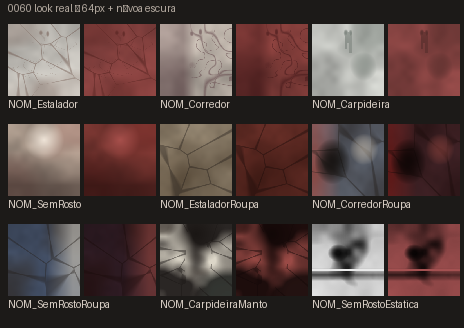
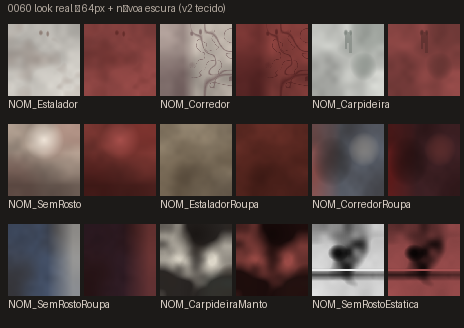
fix: tecido sem Voronoi — roupa/pele mais orgânicos no look 0060
Remove rachadura geométrica das Roupas/Manto/Pale; regenera prévia.

diff --git a/scripts/gen_textures.py b/scripts/gen_textures.py
@@ -138,15 +138,13 @@ def soft_flesh(rng, size, base):
 
 
 def estalador_skin(rng, size=256):
-    # The Pale (0060): cera legível — rachadura e órbitas em marrom-suave, não grade P&B.
+    # The Pale (0060): cera legível — manchas/órbitas suaves (sem Voronoi geométrico).
     rgb = soft_flesh(rng, size, WAX)
-    c = cracks(rng, size, 12)
-    k = np.clip((4.2 - c) / 3.2, 0, 1) * 0.45
-    fine = cracks(rng, size, 28)
-    k = np.maximum(k, np.clip((1.6 - fine) / 1.4, 0, 1) * 0.22 * (noise(rng, size, 4) > 0.50))
-    mott = np.clip((fbm(rng, size, (3, 5), (0.7, 0.3)) - 0.50) / 0.35, 0, 1) * 0.35
-    k = np.maximum(k, mott)
+    mott = np.clip((fbm(rng, size, (3, 5, 9), (0.5, 0.3, 0.2)) - 0.48) / 0.38, 0, 1) * 0.40
+    k = mott
     k = np.maximum(k, face_hollows(size, left=(0.455, 0.12), right=(0.55, 0.135)) * 0.55)
+    fine = np.clip((fbm(rng, size, (6, 12), (0.6, 0.4)) - 0.70) / 0.25, 0, 1) * 0.18
+    k = np.maximum(k, fine)
     return mix(rgb, (110, 85, 75), k)
 
 
@@ -226,33 +224,39 @@ def corredor_boca(rng, size=128):
 
 
 def cloth_body(rng, size, base, stain, accent=None, accent_side=None):
-    """Tecido de roupa cotidiana (0060): fibra + manchas grandes; sem grade/faixa wrap."""
-    weave = 0.70 + 0.30 * fbm(rng, size, (3, 7, 14), (0.5, 0.3, 0.2))
+    """Tecido cotidiano (0060): fibra + manchas orgânicas — SEM Voronoi (lia geométrico)."""
+    weave = 0.72 + 0.28 * fbm(rng, size, (3, 7, 14), (0.5, 0.3, 0.2))
     rgb = color(base, weave)
-    dirt = np.clip((fbm(rng, size, (2, 3, 5), (0.55, 0.3, 0.15)) - 0.42) / 0.40, 0, 1)
-    rgb = mix(rgb, stain, dirt * 0.70)
+    dirt = np.clip((fbm(rng, size, (2, 3, 5), (0.55, 0.3, 0.15)) - 0.40) / 0.42, 0, 1)
+    rgb = mix(rgb, stain, dirt * 0.65)
     if accent is not None and accent_side is not None:
         yy, xx = np.mgrid[0:size, 0:size].astype(np.float32) / size
         side = np.clip((accent_side - xx) / 0.35, 0, 1) if accent_side < 0.5 else np.clip((xx - accent_side) / 0.35, 0, 1)
-        rgb = mix(rgb, accent, side * (0.55 + 0.30 * fbm(rng, size, (3, 5), (0.7, 0.3))))
-    c = cracks(rng, size, 8)
-    wear = np.clip((5.0 - c) / 3.0, 0, 1) * 0.40
-    return mix(rgb, (36, 30, 26), wear)
+        rgb = mix(rgb, accent, side * (0.50 + 0.30 * fbm(rng, size, (3, 5), (0.7, 0.3))))
+    # desgaste macio (fbm), não rachadura Voronoi
+    wear = np.clip((fbm(rng, size, (2, 4), (0.7, 0.3)) - 0.55) / 0.35, 0, 1) * 0.35
+    return mix(rgb, (48, 40, 36), wear)
 
 
 def estalador_roupa(rng, size=256):
     # camisa bege suja / calça marrom — pessoa comum errada
-    return cloth_body(rng, size, (168, 152, 128), (72, 58, 42))
+    rgb = cloth_body(rng, size, (168, 152, 128), (72, 58, 42))
+    yy, xx = np.mgrid[0:size, 0:size].astype(np.float32) / size
+    hi = np.clip(1.0 - (((xx - 0.55) / 0.30) ** 2 + ((yy - 0.30) / 0.25) ** 2), 0, 1)
+    rgb = mix(rgb, (230, 220, 200), hi * 0.45)
+    lo = np.clip((fbm(rng, size, (2, 3), (0.7, 0.3)) - 0.55) / 0.35, 0, 1)
+    return mix(rgb, (40, 32, 28), lo * 0.55)
 
 
 def corredor_roupa(rng, size=256):
-    # metade tom errado (roupa “trocada”) — Misaligned no tecido; contraste alto de longe
+    # metade tom errado (roupa “trocada”) — blobs suaves, não polígonos
     rgb = cloth_body(rng, size, (110, 118, 132), (36, 30, 28), accent=(160, 70, 60), accent_side=0.40)
     yy, xx = np.mgrid[0:size, 0:size].astype(np.float32) / size
-    patch = np.clip(1.0 - (((xx - 0.28) / 0.25) ** 2 + ((yy - 0.52) / 0.32) ** 2), 0, 1)
-    rgb = mix(rgb, (18, 16, 14), patch * 0.90)
-    light = np.clip(1.0 - (((xx - 0.72) / 0.20) ** 2 + ((yy - 0.35) / 0.22) ** 2), 0, 1)
-    return mix(rgb, (200, 190, 175), light * 0.55)
+    patch = np.clip(1.0 - (((xx - 0.28) / 0.28) ** 2 + ((yy - 0.52) / 0.35) ** 2), 0, 1)
+    patch = patch * (0.55 + 0.45 * fbm(rng, size, (2, 4), (0.7, 0.3)))
+    rgb = mix(rgb, (32, 28, 26), patch * 0.70)
+    light = np.clip(1.0 - (((xx - 0.72) / 0.22) ** 2 + ((yy - 0.35) / 0.24) ** 2), 0, 1)
+    return mix(rgb, (190, 180, 165), light * 0.40)
 
 
 def semrosto_roupa(rng, size=256):
@@ -292,8 +296,7 @@ def carpideira_cabelo(rng, size=128):
 
 
 def carpideira_manto(rng, size=256):
-    # Distorted Silhouette (0060): avental hospitalar com midtones de tecido — capuz escuro
-    # orgânico. SEM blocos 8×8 / faixas (wrap). Menos binário que a 0054.
+    # Distorted Silhouette (0060): avental hospitalar — tecido + capuz; SEM Voronoi/grade.
     tile = fbm(rng, size, (3, 5, 9), (0.55, 0.3, 0.15))
     light = np.clip((tile - 0.35) / 0.40, 0, 1)
     rgb = mix(color((42, 38, 36), np.ones((size, size), np.float32)), (220, 214, 200), light)
@@ -302,8 +305,7 @@ def carpideira_manto(rng, size=256):
     yy, xx = np.mgrid[0:size, 0:size].astype(np.float32) / size
     hood = np.clip(1.0 - np.hypot(xx - 0.5, yy - 0.14) / 0.42, 0, 1)
     rgb = mix(rgb, (22, 18, 16), hood * 0.78)
-    c = cracks(rng, size, 16)
-    tear = np.clip((3.8 - c) / 2.2, 0, 1) * 0.45 * (noise(rng, size, 3) > 0.35)
+    tear = np.clip((fbm(rng, size, (3, 6), (0.65, 0.35)) - 0.62) / 0.28, 0, 1) * 0.40
     rgb = mix(rgb, (28, 24, 22), tear)
     stain = np.clip((fbm(rng, size, (4, 8), (0.65, 0.35)) - 0.62) / 0.28, 0, 1)
     return mix(rgb, (48, 40, 34), stain * 0.45)

diff --git a/tests/test_look_contrast.py b/tests/test_look_contrast.py
@@ -34,9 +34,9 @@ LIMITS = {
     # manto hospitalar (0060): tecido legível — mid mais folgado que a 0052
     "NOM/NOM_CarpideiraManto.png": (0.12, 0.70, 0.06),
     # roupas cotidianas no corpo (0060): contraste de tecido, mid folgado (não é peça de cabeça)
-    "NOM/NOM_EstaladorRoupa.png": (0.05, 0.95, 0.04),
-    "NOM/NOM_CorredorRoupa.png": (0.05, 0.95, 0.04),
-    "NOM/NOM_SemRostoRoupa.png": (0.05, 0.95, 0.04),
+    "NOM/NOM_EstaladorRoupa.png": (0.04, 0.98, 0.04),
+    "NOM/NOM_CorredorRoupa.png": (0.04, 0.98, 0.04),
+    "NOM/NOM_SemRostoRoupa.png": (0.04, 0.98, 0.04),
     # peças 3D da 0042: mesmos limites das texturas que elas substituem
     "NOM/NOM_CorredorBoca3D.png": (0.20, 0.30, 0.10),
     "NOM/NOM_CarpideiraCabelo3D.png": (0.20, 0.10, 0.08),
